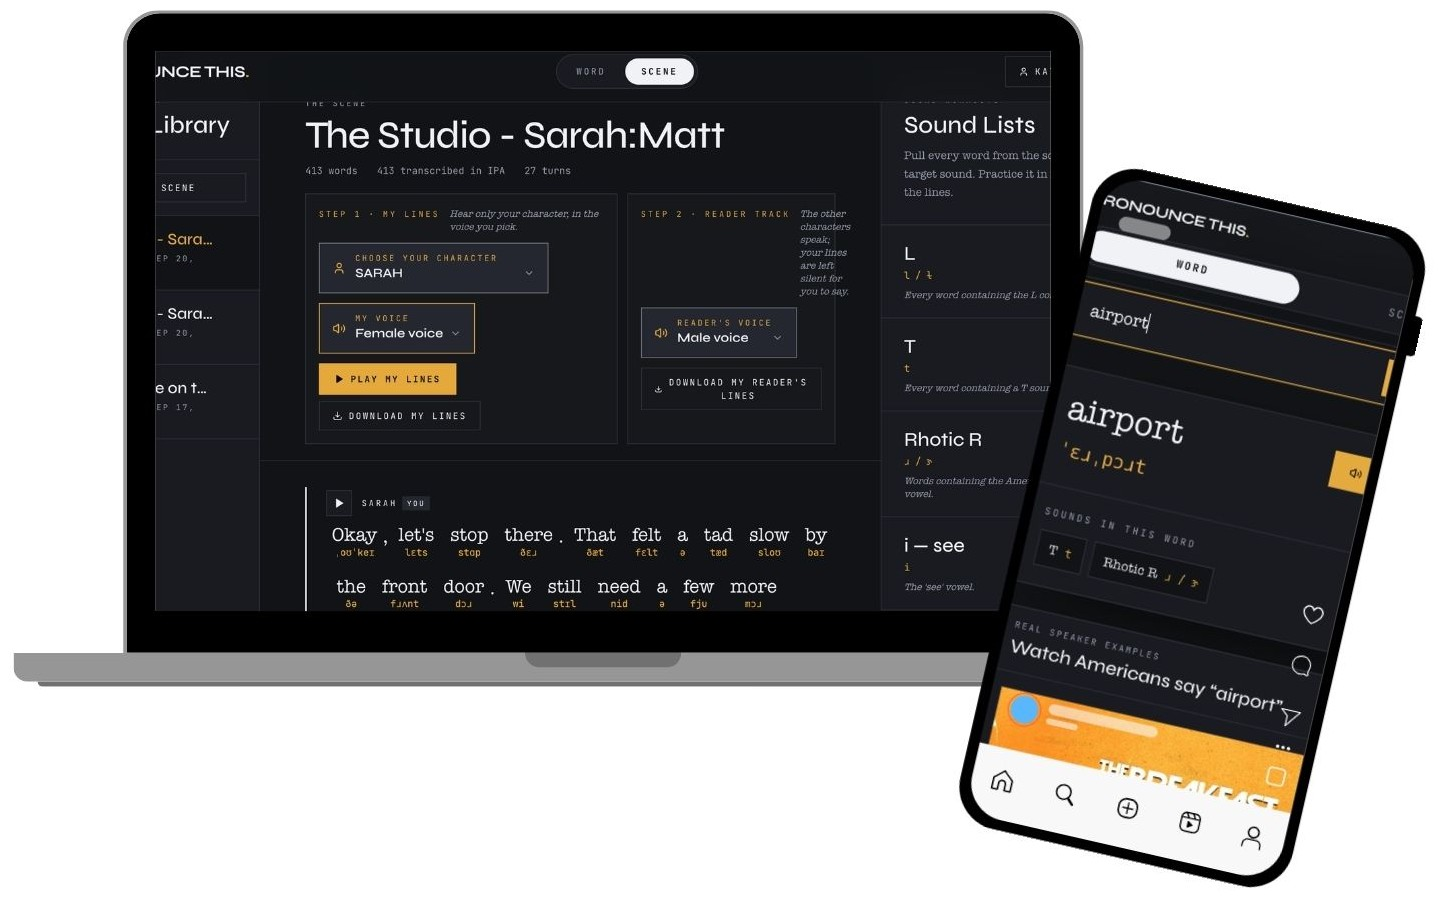
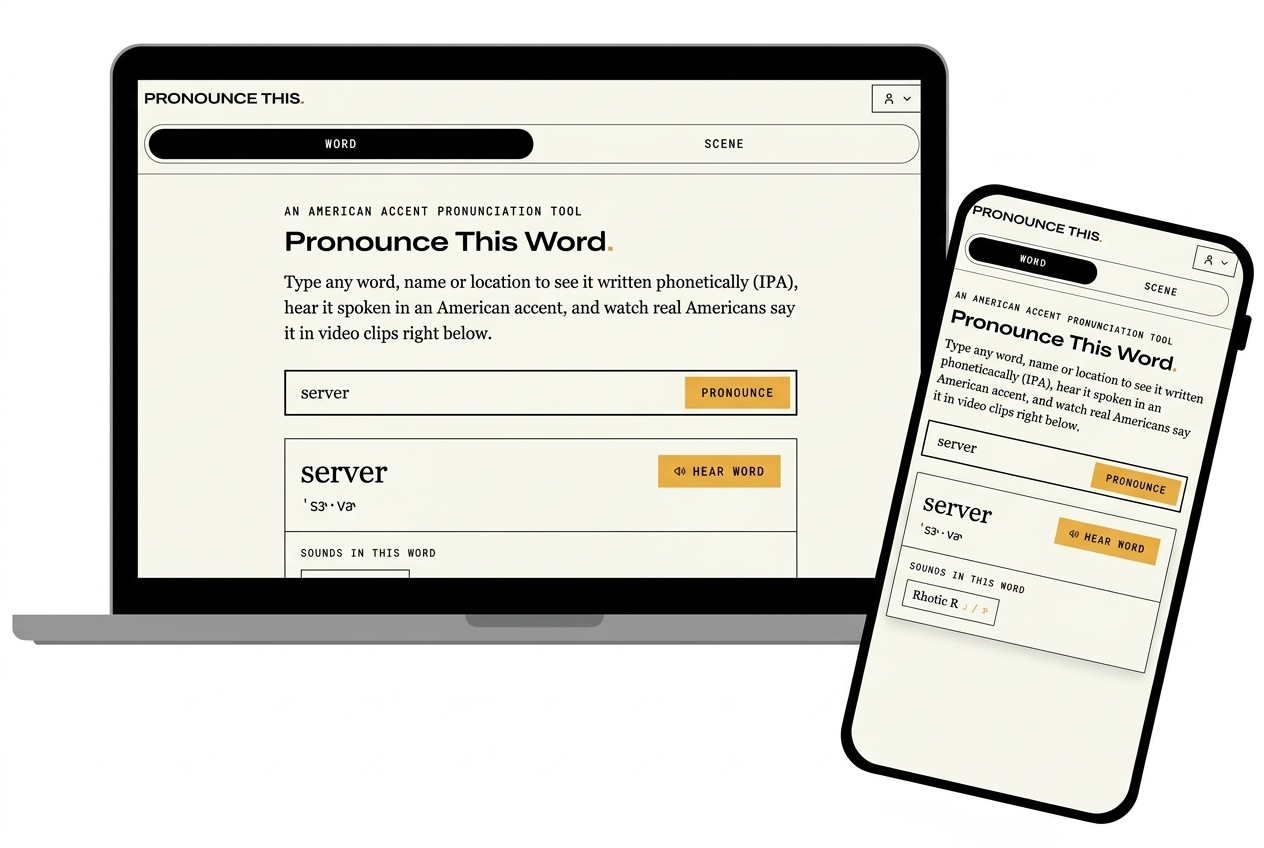
checkpoint before testing_agent_full_stack
Emergent-Commit-Key: 312f3a5fa18b2f4a815270283d12f800dfb91c791caa80dc4d5451dd0954e9a0

diff --git a/frontend/src/index.css b/frontend/src/index.css
@@ -310,24 +310,40 @@ body::before {
   to { opacity: 1; transform: translateY(0); }
 }
 
-/* ---------- Light theme scope (popups + Admin) ---------- */
-.theme-light { --rule: #dddad2; --ink: #17140f; --muted2: #5d5648; color: #17140f; }
-.theme-light .bg-stage, .theme-light.bg-stage { background-color: #f4f1ea; }
-.theme-light .bg-paper, .theme-light.bg-paper { background-color: #faf8f3; }
-.theme-light .bg-surface, .theme-light.bg-surface { background-color: #ffffff; }
-.theme-light .bg-elevated, .theme-light.bg-elevated { background-color: #efece4; }
-.theme-light .text-ink { color: #17140f; }
-.theme-light .text-muted2 { color: #5d5648; }
-.theme-light .text-rust { color: #b3761f; }
-.theme-light .hover\:text-ink:hover { color: #17140f; }
-.theme-light .hover\:bg-elevated:hover { background-color: #efece4; }
-.theme-light .placeholder\:text-muted2::placeholder { color: #8a8375; }
-.theme-light .thin-rule { border-color: #dddad2; }
-.theme-light input, .theme-light select, .theme-light textarea { color: #17140f; background-color: #ffffff; }
-.theme-light .btn-secondary { color: #17140f; border-color: #cfcabe; }
-.theme-light .shadow-2xl, .theme-light .shadow-xl { box-shadow: 0 24px 60px -30px rgba(0,0,0,0.35); }
-.theme-light .bg-surface\/60, .theme-light .bg-paper\/60 { background-color: #f7f4ee; }
-.theme-light .border-rust\/40 { border-color: rgba(179,118,31,0.4); }
-.theme-light kbd { background-color: #efece4; color: #17140f; }
-.theme-light .bg-ink { background-color: #17140f; }
-.theme-light .text-surface { color: #ffffff; }
+/* ---------- Light theme (whole app) ---------- */
+html, :root { --rule: #dddad2; --ink: #17140f; --muted2: #5d5648; color: #17140f; }
+.bg-stage, .bg-stage { background-color: #f4f1ea; }
+.bg-paper, .bg-paper { background-color: #faf8f3; }
+.bg-surface, .bg-surface { background-color: #ffffff; }
+.bg-elevated, .bg-elevated { background-color: #efece4; }
+.text-ink { color: #17140f; }
+.text-muted2 { color: #5d5648; }
+.text-rust { color: #b3761f; }
+.hover\:text-ink:hover { color: #17140f; }
+.hover\:bg-elevated:hover { background-color: #efece4; }
+.placeholder\:text-muted2::placeholder { color: #8a8375; }
+.thin-rule { border-color: #dddad2; }
+input, select, textarea { color: #17140f; background-color: #ffffff; }
+.btn-secondary { color: #17140f; border-color: #cfcabe; }
+.shadow-2xl, .shadow-xl { box-shadow: 0 24px 60px -30px rgba(0,0,0,0.35); }
+.bg-surface\/60, .bg-paper\/60 { background-color: #f7f4ee; }
+.border-rust\/40 { border-color: rgba(179,118,31,0.4); }
+kbd { background-color: #efece4; color: #17140f; }
+.bg-ink { background-color: #17140f; }
+.text-surface { color: #ffffff; }
+
+:root { --stage: #f4f1ea; --paper: #faf8f3; --surface: #ffffff; --elevated: #efece4; }
+body { background: #f4f1ea; color: #17140f; }
+.bg-stage\/90, .bg-stage\/75 { background-color: rgba(23, 20, 15, 0.55); }
+.text-rustDeep { color: #b3761f; }
+.text-sage { color: #1f8f68; }
+.text-crimson { color: #b8382e; }
+.border-ink { border-color: #17140f; }
+.hover\:border-ink:hover { border-color: #17140f; }
+.focus\:border-ink:focus { border-color: #17140f; }
+.text-muted2\/70 { color: rgba(93, 86, 72, 0.7); }
+.bg-rust\/10 { background-color: rgba(179, 118, 31, 0.1); }
+.border-rust { border-color: #b3761f; }
+.glass-bar { background: rgba(250, 248, 243, 0.85); }
+.text-stage { color: #ffffff; }
+.text-paper { color: #ffffff; }
